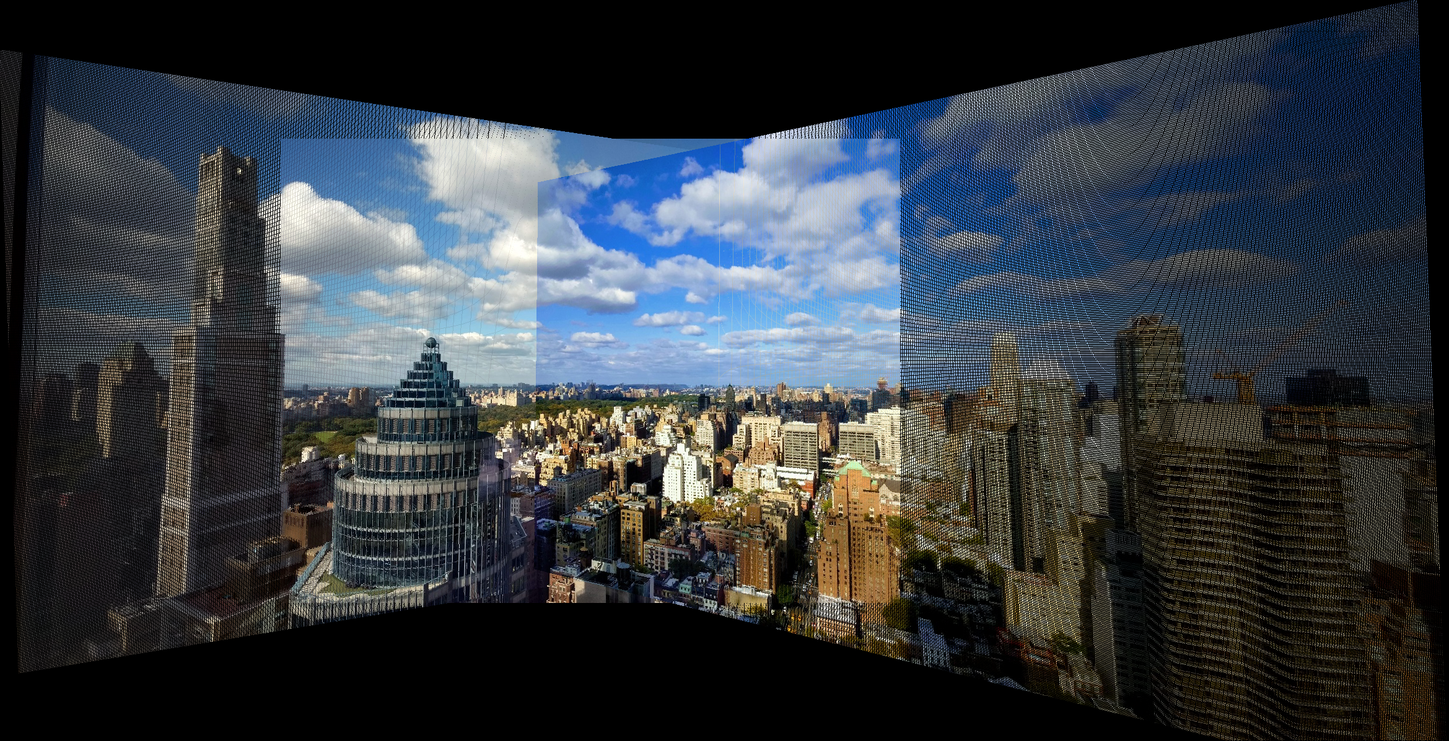
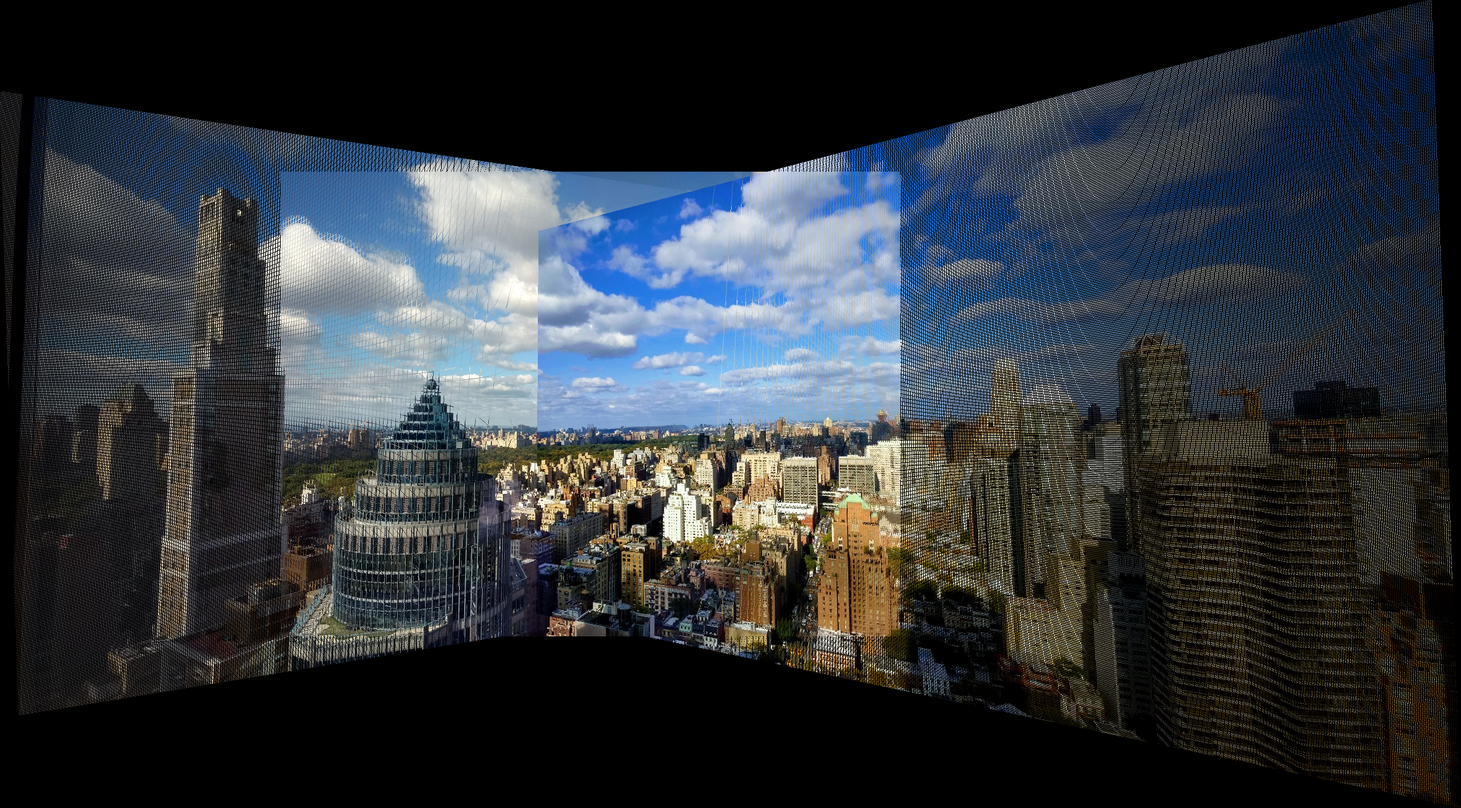
Bounding box calculation which was missing vertical bottom part is now fixed

diff --git a/Assignments/HW4/src/backwardWarpImg.m b/Assignments/HW4/src/backwardWarpImg.m
@@ -12,6 +12,7 @@ function [mask, result_img] = backwardWarpImg(src_img, resultToSrc_H,...
     max_x = max(transformed_pts(:, 1));
     min_y = min(transformed_pts(:, 2));
     max_y = max(transformed_pts(:, 2));
+    extra_ht_bottom = max_y - dest_canvas_width_height(2);
 %     fprintf("Canvas size before: %fx%f)\n", dest_canvas_width_height(1), dest_canvas_width_height(2));
     if min_x < 0
         dest_canvas_width_height(1) = ceil(dest_canvas_width_height(1) - min_x);
@@ -20,7 +21,10 @@ function [mask, result_img] = backwardWarpImg(src_img, resultToSrc_H,...
         dest_canvas_width_height(1) = ceil(max_x);
     end
     if min_y < 0
-        dest_canvas_width_height(2) = ceil(dest_canvas_width_height(2) - 2 * min_y);% + (max_y - dest_canvas_width_height(2)));
+        dest_canvas_width_height(2) = ceil(dest_canvas_width_height(2) - min_y);% + (max_y - dest_canvas_width_height(2)));
+    end
+    if extra_ht_bottom > 0
+        dest_canvas_width_height(2) = ceil(dest_canvas_width_height(2) + extra_ht_bottom);
     end
     fprintf("Canvas size after: %fx%f)\n", dest_canvas_width_height(1), dest_canvas_width_height(2));
     
